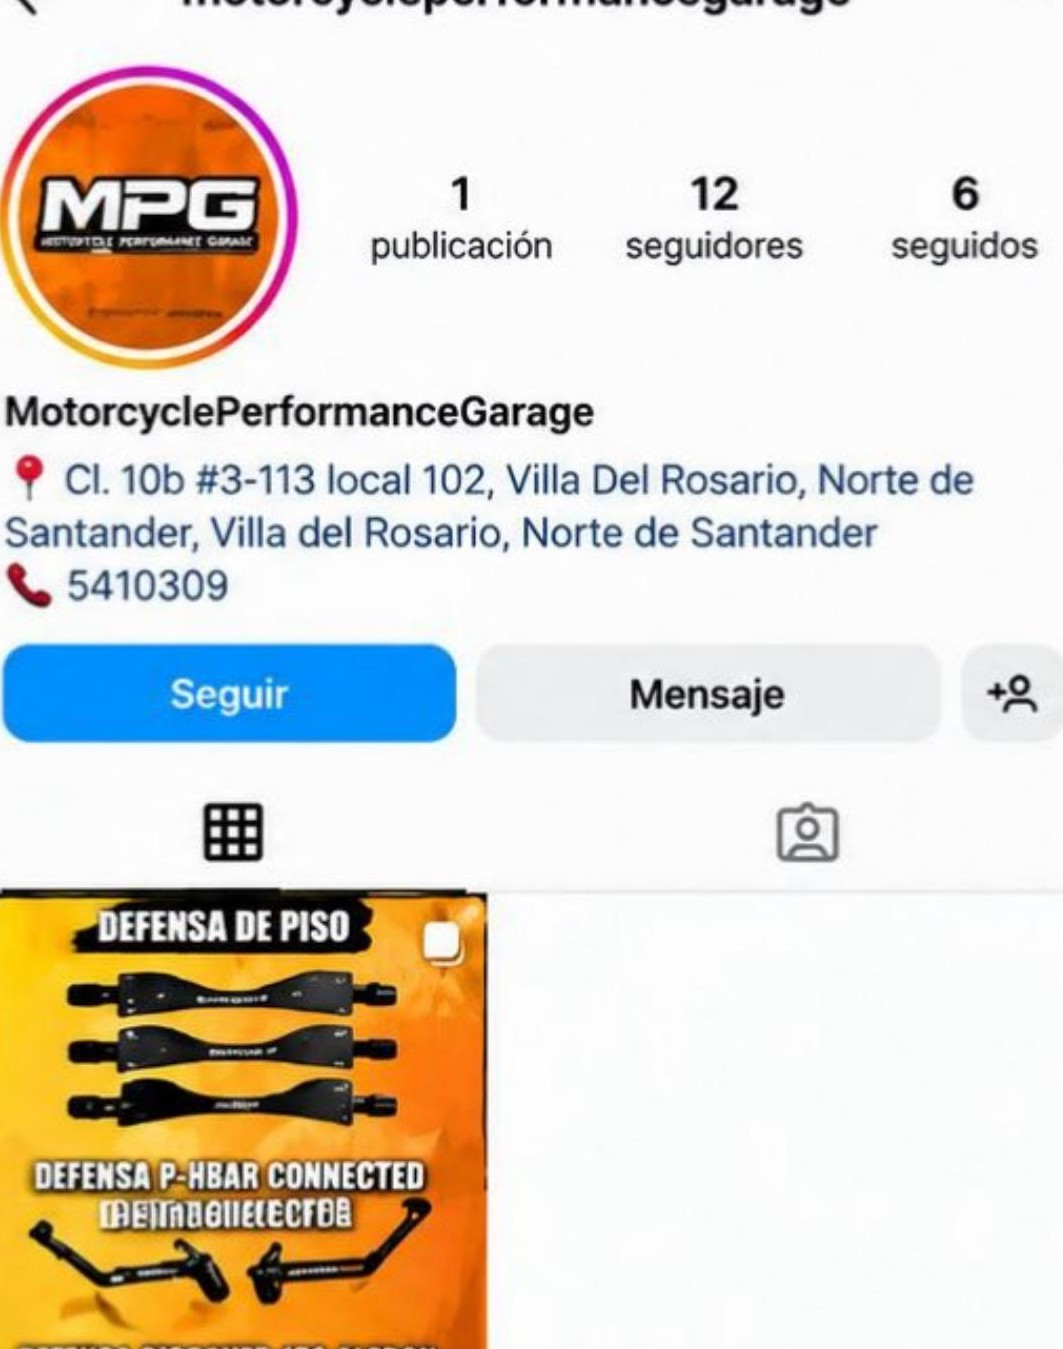
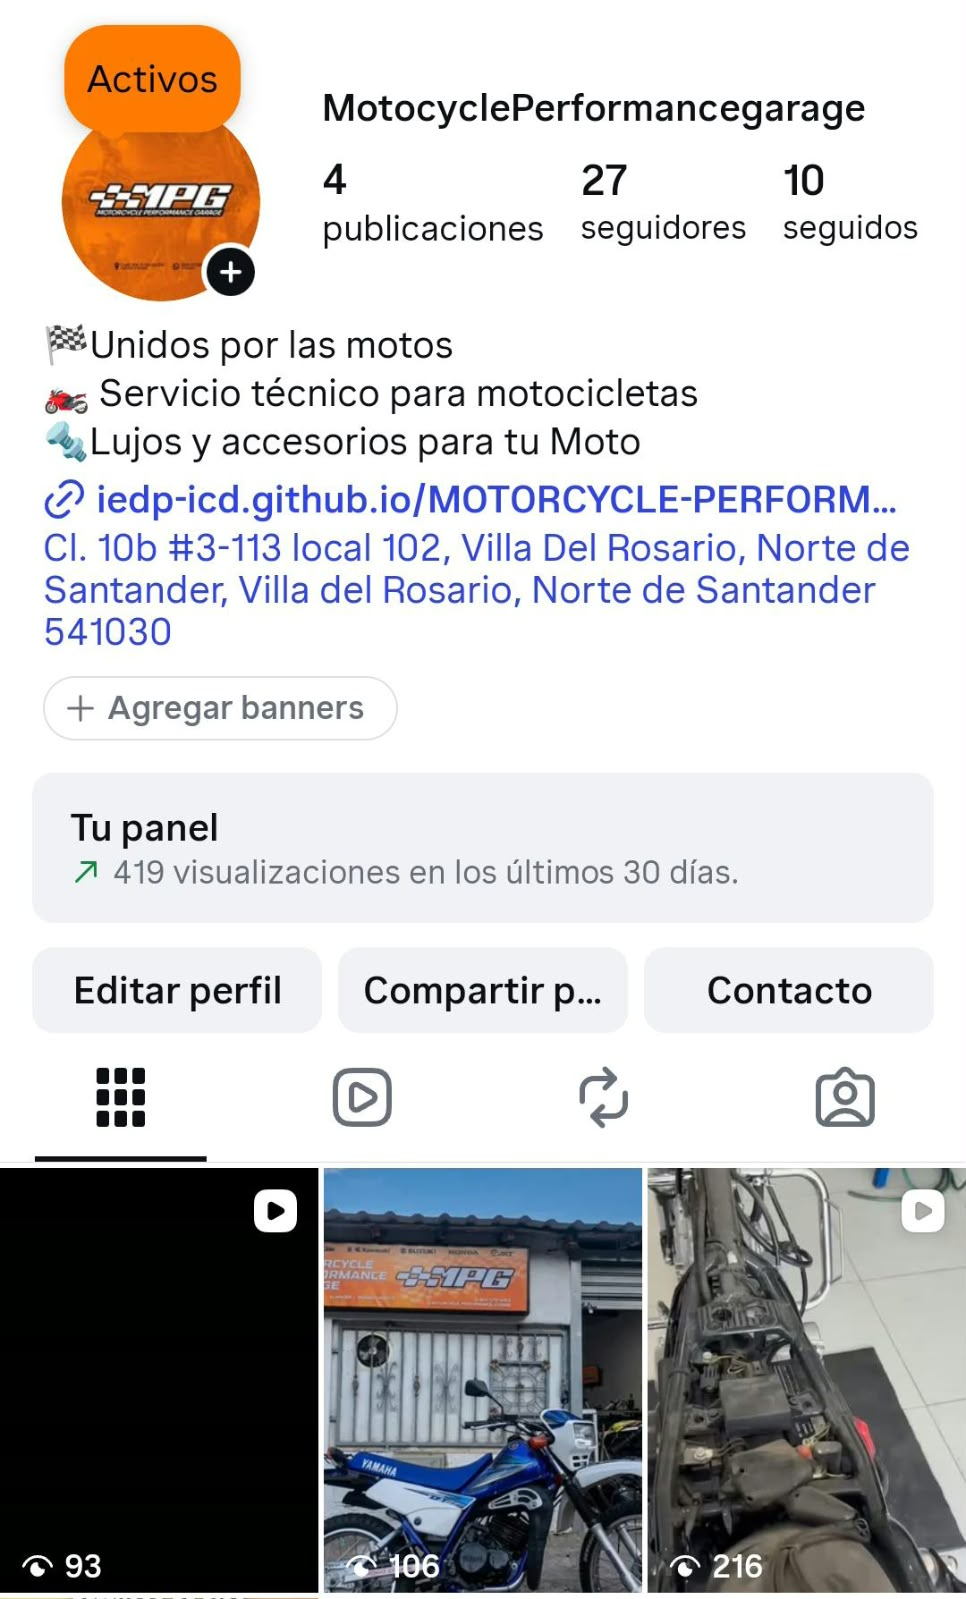
Update Instagram profile screenshot on slide 15, show it uncropped
Replace the outdated instagram.jpg (1 post, 12 followers) with the
current profile screenshot (4 posts, 27 followers). The old screenshot
was also a portrait image being cover-cropped by the default .dos-col
img rule, cutting off the username at top and the post grid at bottom.
Scope a new .redes-col rule to this image so it renders at full size
uncropped (object-fit:contain) instead.

Claude-Session: https://claude.ai/code/session_01XwkMoEZxohZ4MsRLVu6TPH

diff --git a/sustentacion/index.html b/sustentacion/index.html
@@ -188,6 +188,9 @@
     .dos-col img { width: 100%; height: auto; max-height: clamp(200px, 40vh, 400px); object-fit: cover; border: 1px solid var(--acero); box-shadow: var(--sombra-md); }
     .col-texto { display: flex; flex-direction: column; justify-content: center; gap: 0.8rem; min-width: 0; }
 
+    /* Captura de perfil — retrato, se muestra completa en lugar de recortarla */
+    .redes-col img { width: auto; max-width: 100%; height: clamp(260px, 58vh, 580px); max-height: none; object-fit: contain; background: var(--grafito); padding: .6rem; margin: 0 auto; }
+
     .dos-tarjetas { display: grid; grid-template-columns: 1fr 1fr; gap: 1.2rem; }
 
     /* Objetivo general destacado */
@@ -357,6 +360,7 @@
       .dos-tarjetas, .mv-grid, .segmento-grid { grid-template-columns: 1fr; }
       .dos-col, .dos-col.invertido { grid-template-columns: 1fr; gap: .7rem; }
       .dos-col img { max-height: clamp(95px, 17vh, 180px); }
+      .redes-col img { height: clamp(180px, 34vh, 320px); max-height: none; }
       .col-texto { gap: .5rem; }
 
       .portada h1 { font-size: clamp(2.2rem, 11.5vw, 3.6rem); }
@@ -426,6 +430,7 @@
       .miembro-foto { width: 56px; height: 56px; margin-bottom: .4rem; }
       .miembro-desc { display: none; }
       .dos-col img { max-height: 26vh; }
+      .redes-col img { height: 34vh; max-height: none; }
       .tarjeta { padding: .6rem .9rem; }
       .tarjeta p { font-size: clamp(1rem, 2.2vh, 1.15rem); }
       .costo-item .desc { font-size: clamp(.85rem, 2vh, 1.05rem); }
@@ -715,7 +720,7 @@
       <div class="slide-inner">
         <p class="seccion-num">14 — Cómo lo damos a conocer</p>
         <h2>Publicidad en <span>Redes Sociales</span></h2>
-        <div class="dos-col invertido">
+        <div class="dos-col invertido redes-col">
           <img src="img/instagram.jpg" alt="Perfil de Instagram de Motorcycle Performance Garage" />
           <p class="lead">
             Usamos Instagram, TikTok y WhatsApp para mostrar nuestros productos, servicios y promociones, con contenido visual atractivo y de calidad. WhatsApp además es nuestro canal directo de atención al público — logrando mayor alcance, conexión directa con los clientes y más visibilidad para el taller.
